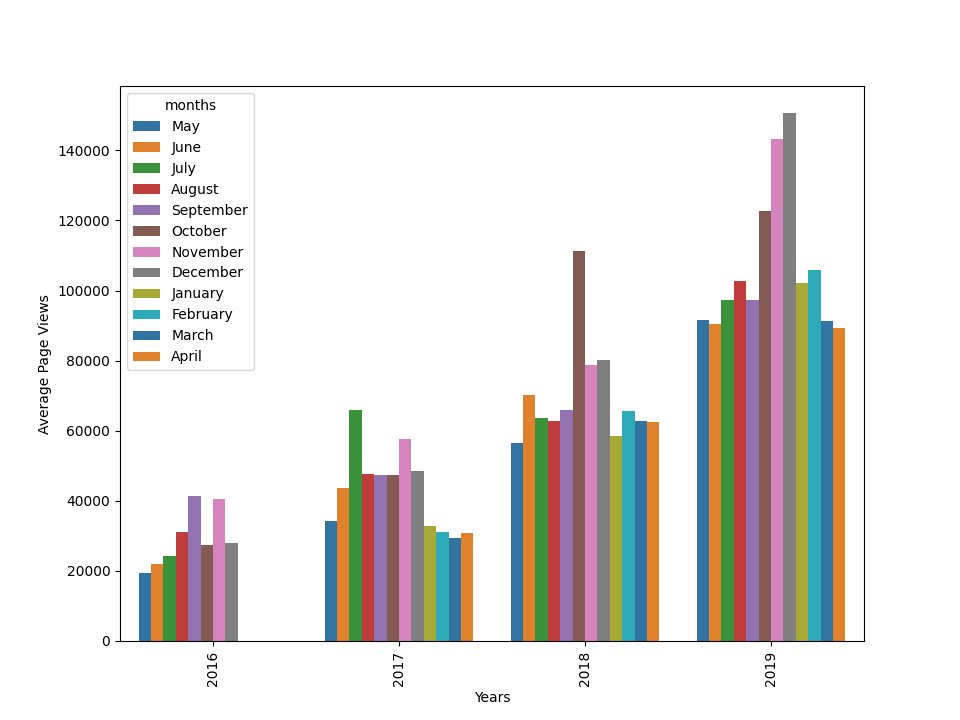
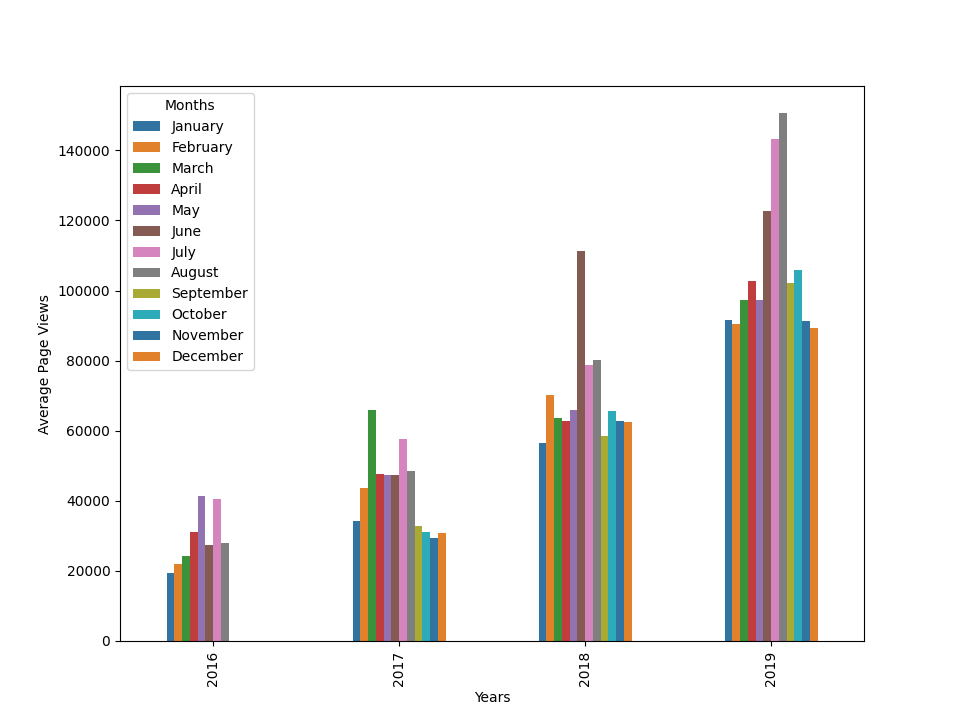
#	modified:   bar_plot.png #	new file:   box_plot.png #	modified:   time_series_visualizer.py

diff --git a/time_series_visualizer.py b/time_series_visualizer.py
@@ -29,20 +29,21 @@ def draw_line_plot():
 def draw_bar_plot():
     # Copy and modify data for monthly bar plot
     df_bar = df.copy()
-    df_bar['years'] = [y.year for y in df_bar.index]
+    df_bar['year'] = [y.year for y in df_bar.index]
     df_bar['month_numbers'] = [m.month for m in df_bar.index]
-    df_bar['months'] = [m.strftime('%B') for m in df_bar.index]
-    df_bar = df_bar[['years', 'month_numbers', 'months', 'value']]    
+    df_bar['month'] = [m.strftime('%B') for m in df_bar.index]
+    df_bar = df_bar[['year', 'month_numbers', 'month', 'value']]
     df_bar.sort_values('month_numbers', inplace=True)
     
     # Draw bar plot
     fig, ax = plt.subplots(figsize=(9.6, 7.2))
     
-    sns.barplot(data=df_bar, x='years', y='value', hue='months', errorbar=None, palette=sns.color_palette())
-    sns.move_legend(ax, 'upper left')
+    sns.barplot(data=df_bar, x='year', y='value', hue='month', width=0.5, errorbar=None, palette=sns.color_palette())
+    
     plt.xlabel('Years')
     plt.ylabel('Average Page Views')
     plt.xticks(rotation=90)
+    plt.legend(['January', 'February', 'March', 'April', 'May', 'June', 'July', 'August', 'September', 'October', 'November', 'December'], title='Months', loc='upper left')
     
     # Save image and return fig (don't change this part)
     fig.savefig('bar_plot.png')
@@ -54,12 +55,24 @@ def draw_box_plot():
     df_box.reset_index(inplace=True)
     df_box['year'] = [d.year for d in df_box.date]
     df_box['month'] = [d.strftime('%b') for d in df_box.date]
+    df_box['month_numbers'] = [m.month for m in df_box.date]
+    df_box.sort_values('month_numbers', inplace=True)
 
     # Draw box plots (using Seaborn)
+    fig, (ax1, ax2) = plt.subplots(1, 2, figsize=(19.2, 7.2))
 
-
-
-
+    sns.boxplot(data=df_box, x='year', y='value', orient='v', palette=sns.color_palette(), ax=ax1)
+    sns.boxplot(data=df_box, x='month', y='value', orient='v', ax=ax2)
+    
+    ax1.set_ylim(0, 200000)
+    ax1.locator_params(axis='y', nbins=10)
+    ax1.set_title('Year-wise Box Plot (Trend)')
+    ax1.set(xlabel='Year', ylabel='Page Views')
+    
+    ax2.set_ylim(0, 200000)
+    ax2.locator_params(axis='y', nbins=10)
+    ax2.set_title('Month-wise Box Plot (Seasonality)')
+    ax2.set(xlabel='Month', ylabel='Page Views')
 
     # Save image and return fig (don't change this part)
     fig.savefig('box_plot.png')
